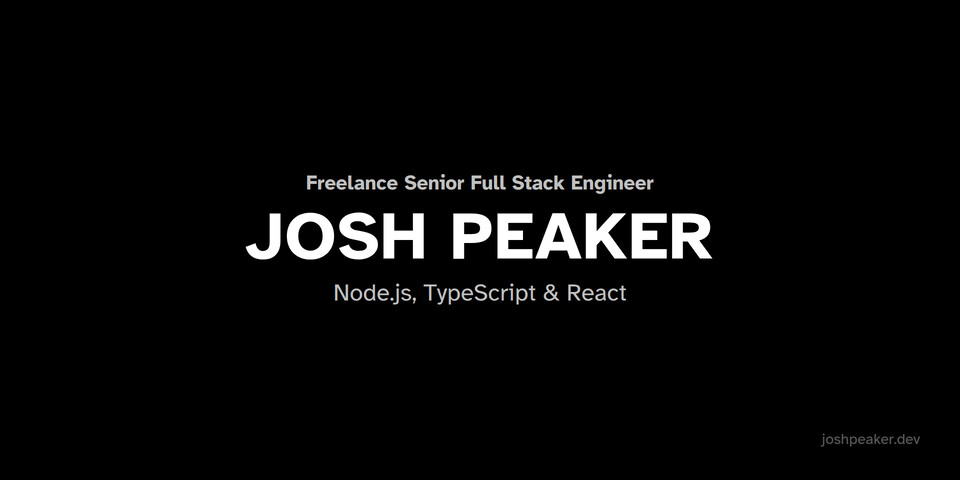
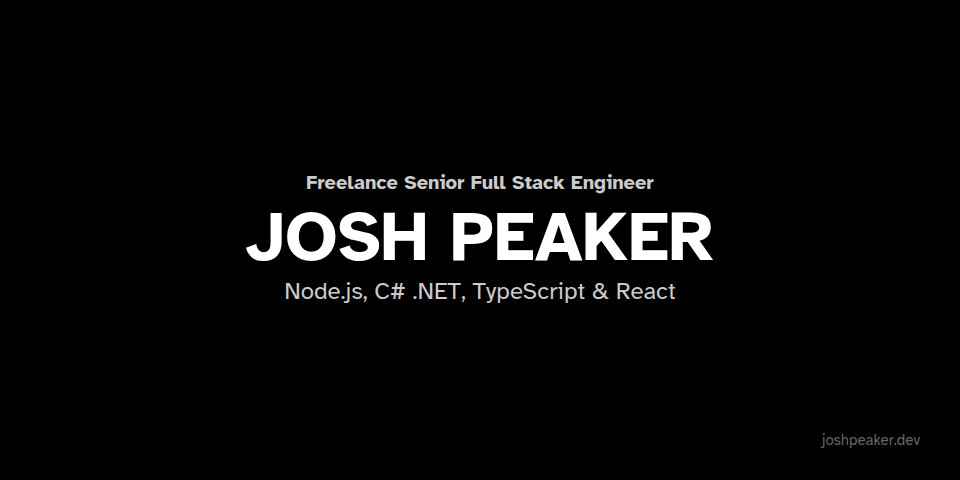
Add C# .NET to positioning and rewrite copy in a plainer voice
- Hero, capability list and meta description now cover C# .NET Core
  alongside Node.js rather than being Node-only
- "What I work with" lists Frontend before Backend, and Node leads the
  backend line with C# in second position
- Rewrote the pitch and CTA copy and removed all em dashes
- Regenerated the Open Graph card to match the new hero line
- Footer copyright now reads "Josh Peaker LTD"

diff --git a/src/consts.ts b/src/consts.ts
@@ -5,7 +5,7 @@ export const SITE: Site = {
   TITLE: "Josh Peaker",
   ROLE: "Freelance Senior Full Stack Engineer",
   DESCRIPTION:
-    "Freelance Senior Full Stack Engineer in London. 12 years building Node.js, TypeScript and React products end to end. Available for freelance and contract work.",
+    "Freelance Senior Full Stack Engineer in London. 12 years building Node.js, C# .NET, TypeScript and React products. Available for freelance and contract work.",
   AUTHOR: "Josh Peaker",
 }
 

diff --git a/README.md b/README.md
@@ -1,6 +1,6 @@
 # joshpeaker.dev
 
-Single-page freelance site for [Josh Peaker](mailto:josh@joshpeaker.dev) — Senior Full Stack Engineer (Node.js, TypeScript & React).
+Single-page freelance site for [Josh Peaker](mailto:josh@joshpeaker.dev), Senior Full Stack Engineer (Node.js, C# .NET, TypeScript & React).
 
 Built with [Astro](https://astro.build) and [Tailwind CSS](https://tailwindcss.com), forked from the [Astro Sphere](https://github.com/markhorn-dev/astro-sphere) template and trimmed down to a single page.
 
@@ -24,4 +24,4 @@ All commands are run from the root of the project, from a terminal:
 
 ## License
 
-MIT — see `LICENSE` (original template by [Mark Horn](https://github.com/markhorn-dev)).
+MIT. See `LICENSE` (original template by [Mark Horn](https://github.com/markhorn-dev)).
